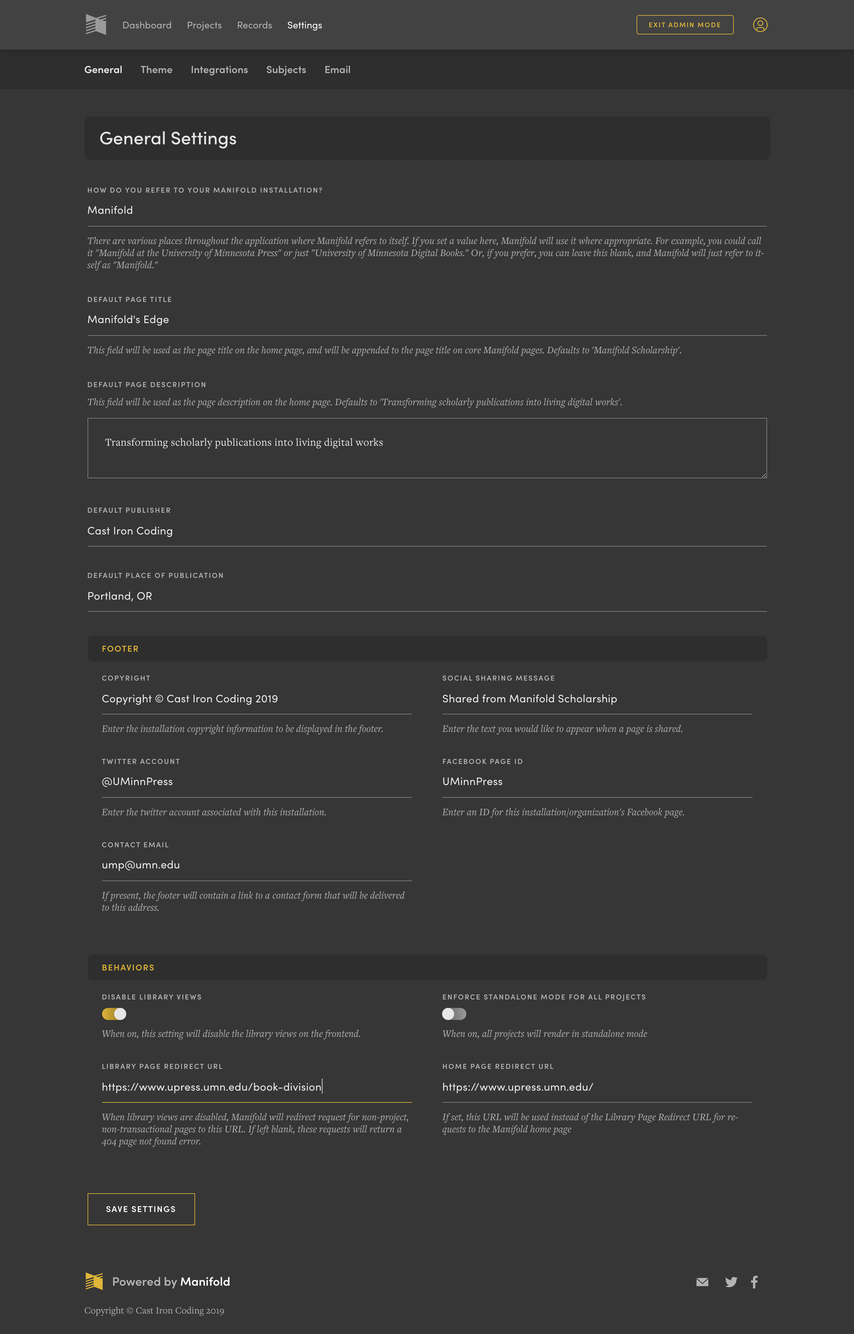
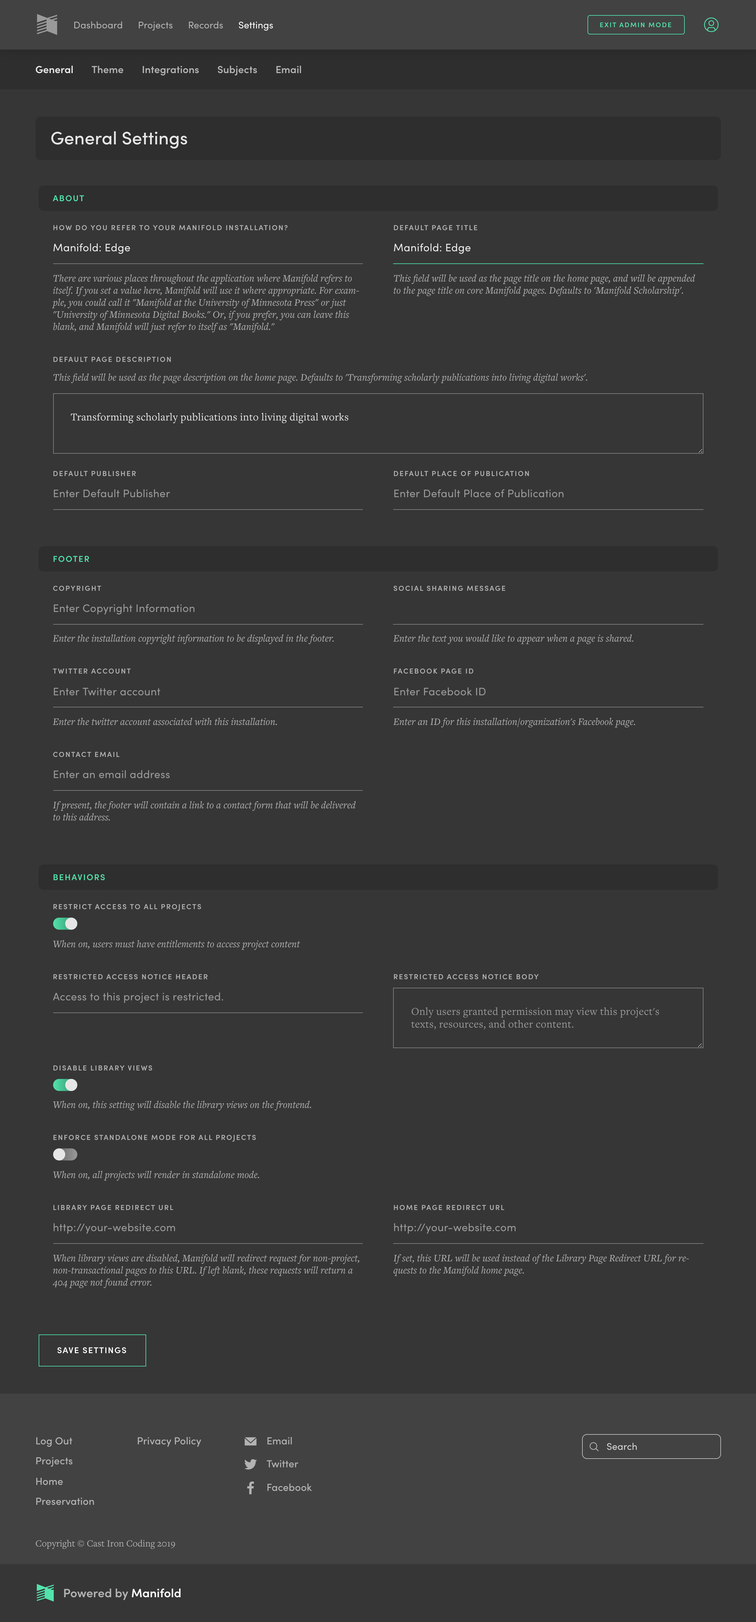
Describes new entitlement feature

diff --git a/_docs/projects/customizing/access.md b/_docs/projects/customizing/access.md
@@ -1,0 +1,146 @@
+---
+layout: page
+title: Access
+menus:
+  projects_customizing:
+    weight: 3
+---
+
+The Access sidebar settings allow editors to control who can modify or access specific projects on a Manifold instance. These settings are categorized along two different trajectories:
+
+- **Editor Permissions** are oriented around collaboration and granting backend access and status to particular users on a limited basis. For instance, a production editor at a university press wants to allow an author to place their own media resources in a text, a journal editor wants to invite another user to help load materials for a special issue, a teacher wants their graduate assistant to curate a collection of OER materials. In Manifold speak, we think of these as “scoped roles” as compared to “global roles,” which are described in the [Users section](/docs/projects/accounts/users.html).
+- **Project Entitlements**, on the other hand, allow publishers the means to limit who can access and engage with a project. This could be used as a basic paywall mechanism, a means to preview content to authors before it debuts publicly, a means to serve exam and desk copies, a way for teachers to limit project access to only members of their class.
+
+The means by which these sorts of permissions and entitlements limit or extend access to users is described in detail below.
+
+![Access Sidebar Menu](/docs/assets/projects/access.png)
+
+## Editor Permissions
+
+The most common permission-granting scenario will be in providing those with [Reader roles](/docs/projects/accounts/users.html) one or more of the following permissions, though these permissions can be granted to other role types as well.
+
+By default this section will be empty for new projects, except for those created by users with the `Project Creator` role, who will automatically be listed in this space with `Can Modify Project` permissions for those projects they create.
+
+<div style="background: #d4f2ff; margin: 20px 0; padding: 15px;">
+<strong>Note</strong>. Users who are granted these project-specific permissions cannot themselves extend such permissions forward to other users, with the exception of those who have <code>Can Modify Project</code> toggled on—the “Project Editor” permission.
+</div>
+
+To assign a user project-specific permissions, click `Grant editor permission`. This will open a drawer from the right side of the screen with a dropdown menu and three sliders.
+
+![Access Sidebar Menu](/docs/assets/projects/grant.png)
+
+Click the `Select User` dropdown and begin typing or scrolling to find the user whom you want to assign the permissions. If they can't find their name, they may not yet have an account on your instance, and you will need to [create a new user account](/docs/projects/accounts/creating.html) on their behalf.
+
+You can now toggle the sliders for the following three permissions. To formally extend those permissions click `Save Permissions`. Once clicked those permissions will be activated and ready to use immediately.
+
+### Can Modify Project
+
+Grants user the ability to make any change within the scope of the backend project page as well as modify Maker records directly associated with those projects where they have been granted this permission. This includes the ability to permanently delete a Maker record that may also be associated with other projects.
+
+When this option is selected the title `Project Editor` will be appended next to the user's name.
+
+### Can Modify Resource Metadata
+
+Grants users the ability to update resource metadata. This permission will be most useful to bestow on those who are best positioned—or simply have the requisite time—to flesh out the information associated with project's resources.
+
+When this option is selected the title `Metadata Author` will be appended next to the user's name.
+
+<div style="background: #d4f2ff; margin: 20px 0; padding: 15px;">
+<strong>Note</strong>. It would be redundant to grant a user both “Can Modify Project” and “Can Modify Metadata,” as someone who can modify a project can also inherently modify its metadata.
+</div>
+
+### Is a Project Author
+
+Grants users the ability to access draft projects, modify metadata and place resources in the project's texts. This permission will also differentiate the user's annotations and highlights from others with a pink color and an author badge, as a means indicate that the author is themself engaging with the project directly.
+
+When this option is selected the title `Author` will be appended next to the user's name.
+
+<a name="entitlements"></a>
+
+## Project Entitlements
+
+The controls in this section allow a publisher to limit who can access a specific project. Access to a project can be restricted to individual users or particular reading groups (e.g., a reading group of peer reviewers, a group who receives review copies, a discussion section of a class).
+
+Presently, the transaction that grants an entitlement occurs outside of the Manifold platform: a student signs up for a class, a teacher invites the student to a reading group that has an entitlement to a specific project; a reader purchases access to a project via a publisher's website, the publisher manually grants that reader's account access to that project. In the future we are hoping to make it possible to manage that process programmatically with a publisher's existing authentication architecture.
+
+Beyond restricting access, the settings here can be used to customize the messaging around why the project is restricted and how to gain access to it.
+
+Publishers can also search through existing entitlements to revoke access or learn when a user's access to a project will expire.
+
+<div style="background: #d4f2ff; margin: 20px 0; padding: 15px;">
+<strong>Note</strong>. The settings here are for an individual project. By default all Manifold projects are openly accessible. To change the default so that all publications are restricted, see the <a href="/docs/customizing/settings/general.html#behaviors">Settings section</a>.
+</div>
+
+### Configure Access Restrictions
+
+To activate access controls for your project, click `Configure Access Restrictions`. 
+
+![Entitlements Menu](/docs/assets/projects/configaccess.png)
+
+This will expand the project restriction option, which are contextual based on the default access setting:
+
+![Entitlements Menu](/docs/assets/projects/restrictions.png)
+
+#### Project Access is Restricted *(Conditional)*
+
+When this slider is toggled on, access to the project will be restricted to only those users or reading groups who have credentials to modify the project in the backend and those who have entitlements to do so.
+
+This means all users on the instance who log in with `Administrator`, `Editor`, or `Marketeer` credentials can access restricted projects.
+
+Users logging in with `Project Creator` or `Reader` credentials will not have access to restricted projects *unless* (1) they have been granted a project permission, as described in the section above; (2) they have secured an entitlement described in the `Create Entitlement` section below; or (3) are a member of a reading group that has likewise been granted an entitlement to the project. For more on the different kinds of Manifold users, see the [Accounts section](/docs/projects/accounts/users.html).
+
+Users who attempt to access project materials without the appropriate credentials will be directed to the project landing page where a restricted access ribbon will display across the hero, reading “Only authorized users may access this project.”
+
+![Restriction Ribbon](/docs/assets/projects/onlyAuthorized.png)
+
+This slider also has implications for the [calls-to-action](/docs/projects/customizing/layout.html#callActions) that are configured to appear in the hero section. Calls-to-Action of the type `Link` or `Download` can be set to appear always, only for authorized users, or only for unauthorized users. This provides publishers a means to tailor the experience of the project for users depending on how they presently relate to a project. See the [Layout section](/docs/projects/customizing/layout.html#callActions) for more.
+
+#### Project is Open Access *(Conditional)*
+
+When a Manifold instance is configured to restrict access to all projects (described in the [General Settings section](/docs/customizing/settings/general.html#behaviors)) this slider will read as “Project is Open” instead of “Project Access is Restricted.”
+
+In this state, this slider allows a publisher to selectively make certain projects openly available to all readers without need for any special entitlements. This could be useful for journals, book series, or general marketing efforts aimed at giving readers a preview of the kinds of content generally available on an instance.
+
+#### Restricted Access Notice Header
+
+When `Project Access is Restricted` is toggled on, the text in this field will display (with the `Restricted Access Notice Body`) below the project hero for only those users who don't have credentials to access the project.
+
+This field is customizable and Markdown enabled. If left blank, the default message will display: “Access to this project is restricted.”
+
+![Restricted Notice](/docs/assets/projects/restrictedNotice.png)
+
+#### Restricted Access Notice Body
+
+When `Project Access is Restricted` is toggled on, the text in this field will display (with the `Restricted Access Notice Header`) below the project hero for only those users who don't have credentials to access the project.
+
+This field is customizable and Markdown enabled. If left blank, the default message will display: “Only users granted permission may view this project's texts, resources, and other content.”
+
+### Search Entitlements
+
+The search bar in the entitlement sections allows publishers to sort through existing and past entitlements. Entitlements can be revoked individually as needed. Each entitlement records also carries a tag to indicate the current status of the permission: active, expired, or expiring soon.
+
+![Entitlements Menu](/docs/assets/projects/entitlements.png)
+
+### Create Entitlement
+
+To provide users or reading groups an entitlement to access restricted projects, click `Create entitlement`. This will open up the Grant Entitlements panel from the right.
+
+![Entitlements Panel](/docs/assets/projects/entitlementsPanel.png)
+
+The panel comprises two fields that define the nature of the entitlement:
+
+#### Who is the Entitlement For?
+
+Using this dropdown, publishers can scroll or type-ahead for existing users or reading groups to grant an access entitlement to the project. Presently only one selection can be made at a time.
+
+If there is no entry for the intended user, a new account will first need to created for them. Learn more about that process in the [Accounts section](/docs/projects/accounts/creating.html).
+
+Once `Save Entitlement` is clicked the entitlement will be in place and the user or reading group will immediately have access to the project.
+
+Access entitlements for reading groups remain in effect for the individual members of the group for the duration of entitlement and so long as they remain a part of the group.
+
+#### Expiration *(Optional)*
+
+By default an entitlement does not have an expiration date. If one is desired include the date here in `YYYY/MM/DD` format. This field also accepts human-readable strings in the form of "in *x* term" (e.g., “in three days,” “in two months,” “in one year”).
+
+Existing entitlements, once saved saved, cannot be modified—only deleted. However, users and reading groups can have multiple entitlements. If an entitlement record doesn't align with current expectations, a new entitlement can be granted with new terms: if Journal Subscriber has an entitlement that expires at the end of the year and she has just renewed her subscription, a new entitlement record can be assigned with the new terms of expiration. When one entitlement ends the other will automatically go into effect.

diff --git a/_docs/projects/accounts/users.md b/_docs/projects/accounts/users.md
@@ -6,7 +6,11 @@ menus:
     weight: 1
 ---
 
-Users are created by those first signing up for an account with a particular instance of Manifold—or by an existing Administrator on behalf of one who doesn't yet have an account. User accounts carry permission credentials according to the following roles:
+Users are created by those first signing up for an account with a particular instance of Manifold—or by an existing Administrator on behalf of one who doesn't yet have an account. User accounts provide credentials along the following lines:
+
+<div style="background: #d4f2ff; margin: 20px 0; padding: 15px;">
+In Manifold speak, user accounts are “global roles,” in that the permissions these roles bestow function as described here generally across a Manifold instance. It is also possible to extend similar permissions at an individual project level. Those are “scoped roles” that are fully considered in the <a href="/docs/projects/customizing/access.html">Access section</a>.
+</div>
 
 ## Administrator
 
@@ -16,24 +20,24 @@ Users are created by those first signing up for an account with a particular ins
 
 ## Editor
 
-**Abilities**. Editors can create, modify, or delete Projects, [Maker records](/docs/projects/accounts/makers.html) and an installation's [Pages](/docs/customizing/records/pages.html), regardless of who originally created them. Editors *do not* have access to an installation's [global settings](/docs/customizing/settings/index.html), cannot manage [Features](/docs/customizing/records/features.html), nor can they create, modify, or delete [user accounts](/docs/projects/accounts/users.html). Editors, however, can grant other users [permissions to modify specific projects](/docs/projects/customizing/permissions.html).
+**Abilities**. Editors can create, modify, or delete Projects, [Maker records](/docs/projects/accounts/makers.html) and an installation's [Pages](/docs/customizing/records/pages.html), regardless of who originally created them. Editors *do not* have access to an installation's [global settings](/docs/customizing/settings/index.html), cannot manage [Features](/docs/customizing/records/features.html), nor can they create, modify, or delete [user accounts](/docs/projects/accounts/users.html). Editors, however, can grant other users [permissions to modify specific projects](/docs/projects/customizing/access.html).
 
 **Use Cases**. Editor permissions would be used for those in DH Centers, publishing units, and libraries where staff with this permission designation need full control over all the projects and Maker records within an instance.
 
 ## Project Creator
 
-**Abilities**. Can access the backend and modify all elements of those projects they've created or those for which they have been scoped `Can Modify Project` [permissions](/docs/projects/customizing/permissions.html). Project Creators likewise have the authority to extend permissions to other users over those projects they manage. Additionally, Project Creators can create new and modify existing Maker records; however, they cannot delete *any* Maker record, even those they created.
+**Abilities**. Can access the backend and modify all elements of those projects they've created or those for which they have been scoped `Can Modify Project` [permissions](/docs/projects/customizing/access.html). Project Creators likewise have the authority to extend permissions to other users over those projects they manage. Additionally, Project Creators can create new and modify existing Maker records; however, they cannot delete *any* Maker record, even those they created.
 
 **Use Cases**. The Coordinator role can be granted to (acquisitions) editorial and production staff, within a university press, to manage their specific projects and the people contributing to them. At other publishing centers this role allows members of distinct units to control their own projects without affecting the instance as a whole or the publishing work of other units on the same instance.
 
 ## Marketeer
 
-**Abilities**. Marketeers can modify *all* existing Projects and Maker records, as well as create, modify, or delete an installation's [Pages](/docs/customizing/records/pages.html) and [Features](/docs/customizing/records/features.html). However, they *cannot* extend [permissions](/docs/projects/customizing/permissions.html) to other users on a project-by-project basis, nor can they create new or delete existing Maker records, nor can they.
+**Abilities**. Marketeers can modify *all* existing Projects and Maker records, as well as create, modify, or delete an installation's [Pages](/docs/customizing/records/pages.html) and [Features](/docs/customizing/records/features.html). However, they *cannot* extend [permissions](/docs/projects/customizing/access.html) to other users on a project-by-project basis, nor can they create new or delete existing Maker records, nor can they.
 
 **Use Cases**. For those who are charged with maintaining the identity, voice, and branding of the instance. At a university press this role would granted to staff from the marketing and sales departments.
 
 ## Reader
 
-**Abilities**. The default user role. When logged in a Reader can highlight, annotate, comment, make use of sharing functionalities, and customize email notifications, all of which are described in detail in the [Reading section](/docs/reading/index.html). Readers don't have native access to the backend in any capacity, but they can be scoped permissions to perform certain actions in the backend (e.g., adding resources to a project or modifying metadata). Readers can also be classified as project authors, which distinguishes their interactions with their text from other readers. For more about what permissions can be scoped to the Reader role on a project-by-project basis, see the [Permissions section](/docs/projects/customizing/permissions.html).
+**Abilities**. The default user role. When logged in a Reader can highlight, annotate, comment, make use of sharing functionalities, and customize email notifications, all of which are described in detail in the [Reading section](/docs/reading/index.html). Readers don't have native access to the backend in any capacity, but they can be scoped permissions to perform certain actions in the backend (e.g., adding resources to a project or modifying metadata). Readers can also be classified as project authors, which distinguishes their interactions with their text from other readers. For more about what permissions can be scoped to the Reader role on a project-by-project basis, see the [Access section](/docs/projects/customizing/access.html).
 
 **Use Cases**. All users signing up for the first time to an instance are granted a Reader role. Users who have authored materials on the platform should come into the system as Readers and be granted further permission to access and engage with their project. See the Abilities section below for more details.

diff --git a/_docs/projects/customizing/layout.md b/_docs/projects/customizing/layout.md
@@ -118,14 +118,25 @@ In the example above there are three buttons on the left, two on the right, and 
 
 To create a new button or link, click one of the four respective buttons labeled, "Add Button [or Link] to Left [or Right] side."
 
-The interface is very plastic, so you can drag/drop elements from one quadrant (e.g., left-side link) to another (right-side button), and the system will change the link/button behavior accordingly.
+The interface is very plastic, so you can drag/drop elements from one column (e.g., left-side link) to another (right-side button), and the system will change the link/button behavior accordingly.
 
-When creating a new button or link a drawer will slide open from the right and prompt users for a title, a type, and then what the button/link should relate to. Because button and links are oriented around their type or action, we will consider them along those lines:
+When creating a new button or link a drawer will slide open from the right and prompt users for a title, a type, and then what the button/link should relate to. Because button and links are oriented around their type or action, we will consider them along those lines in the following sections.
+
+<div style="background: #d4f2ff; margin: 20px 0; padding: 15px;">
+<p><strong>Note</strong>. Calls-to-action are contextual relative to whether or not a project is configured for <a href="/docs/projects/customizing/access.html#entitlements">restricted access</a>.</p>
+<p><code>Start Reading</code> and <code>Table of Contents</code> calls-to-action types will always appear in the hero, though only those with the appropriate credentials will be able to follow them to their intended target.</p>
+<p><code>Link</code> and <code>Download</code> calls-to-action have visibility settings that allow a publisher to choose whether or not they always appear or appear to either authorized or unauthorized users. Thus it is possible to configure a project to showcase one set of calls to actions for authorized users and a different set for unauthorized users.</p>
+</div>
 
 <a name="actionsLink"></a>
+
 #### Link
 
 Links point to any content, either hosted on Manifold or remotely, that can be described with a URL. Two examples: a link can be used to create a button that reads "Buy Now" and links to the publisher's shopping cart. Or a link could be used to show a link to related content on the author's personal website.
+
+The `Visibility` field in the Link configuration drawer allows a publisher to determine when this element will appear in the hero: always, only for authorized users, or only for unauthorized users.
+
+For example, a subscription link would be useful for unauthorized users to gain access to the project, while for authorized users that would not be of interest. Likewise links to specific materials may only be of use after a user has gained access to a project. See the [Access section](/docs/projects/customizing/access.html#entitlements") for more.
 
 <a name="actionsRead"></a>
 #### Start Reading
@@ -184,6 +195,10 @@ A Table of Contents link/button opens a specific text to the section that the fi
 #### Download
 
 The Download action allows publishers the means to load a file into the system that readers can download to their device. This can be useful if, say, the publisher wants to provide their readers with an ebook associated with the project or an archive of all the source files that were ingested into the Manifold reader. It could also be used to share collections of data or specific materials that require pride of place on the project page.
+
+The `Visibility` field in the Download configuration drawer allows a publisher to determine when this element will appear in the hero: always, only for authorized users, or only for unauthorized users.
+
+For example, a subscription link would be useful for unauthorized users to gain access to the project, while for authorized users that would not be of interest. Likewise links to specific materials may only be of use after a user has gained access to a project. See the [Access section](/docs/projects/customizing/access.html#entitlements") for more.
 
 <div style="background: #d4f2ff; margin: 20px 0; padding: 15px;">
 <strong>Note</strong>. There are no restrictions on the kind of file uploaded into this field.
@@ -304,15 +319,15 @@ The Table of Contents Block renders the table of contents for a specific text in
 
 Manifold populates this block using the source document's navigational table of contents or header structure, as described here:
 
-| Upload Format   | Navigational File |
-|:---------------:|:-----------------:|
-| EPUB3           | `tox.xhtml`       |
-| EPUB2           | `tox.ncx`         |
-| Manifest Ingest | `contents.yml`    |
-| DOCX            | Header structure  |
-| Google Doc      | Header structure  |
-| Markdown        | Header structure  |
-| HTML            | Header structure  |
+|  Upload Format  | Navigational File |
+| :-------------: | :---------------: |
+|      EPUB3      |    `tox.xhtml`    |
+|      EPUB2      |     `tox.ncx`     |
+| Manifest Ingest |  `contents.yml`   |
+|      DOCX       | Header structure  |
+|   Google Doc    | Header structure  |
+|    Markdown     | Header structure  |
+|      HTML       | Header structure  |
 
 In other words, the Contents dropdown in the Manifold reader for the selected text will mirror the readout for a Table of Contents block pointing to that same text.
 

diff --git a/_docs/customizing/settings/general.md b/_docs/customizing/settings/general.md
@@ -11,6 +11,8 @@ Selecting the `Settings` menu in admin mode will bring you to the `General` sett
 
 ![General Settings](/docs/assets/customizing/general.png)
 
+## About
+
 ### How Do You Refer to Your Manifold Installation?
 
 The name entered in this field will be used on the account creation modal that new users will see when they join your instance: `By creating this account, you agree to {name}’s terms and conditions.` It will also appear in the email sent to new users welcoming them to your instance: `Welcome to {name}. Thanks for signing up!`
@@ -83,13 +85,35 @@ When a reader clicks on the email icon link they will be directed to an editable
 
 ## Behaviors
 
+### Restrict Access to All Projects
+
+By default all Manifold projects are openly accessible. This toggle allows publishers to adjust that, so all projects are instead restricted and require an entitlement that is gained, for example, via a purchase, subscription, membership, etc.
+
+Such entitlements are bestowed to specific users or reading groups within the settings of individual projects. To learn more about that process and how restricted projects behave differently from open ones, see the [Access section](/docs/projects/customizing/access.html#entitlements).
+
+<div style="background: #d4f2ff; margin: 20px 0; padding: 15px;">
+<strong>Note</strong>. When this setting is toggled on, publishers will still have the ability to make certain projects openly accessible for general readers.
+</div>
+
+### Restricted Access Notice Header *(Contextual)*
+
+When `Project Access is Restricted` is toggled on, the text in this field will display (with the `Restricted Access Notice Body`) below the project hero for only those users who don't have credentials to access the project.
+
+This field is customizable and Markdown enabled. If left blank, the default message will display: “Access to this project is restricted.”
+
+![Restricted Notice](/docs/assets/projects/restrictedNotice.png)
+
+### Restricted Access Notice Body *(Contextual)*
+
+When `Project Access is Restricted` is toggled on, the text in this field will display (with the `Restricted Access Notice Header`) below the project hero for only those users who don't have credentials to access the project.
+
+This field is customizable and Markdown enabled. If left blank, the default message will display: “Only users granted permission may view this project's texts, resources, and other content.”
+
+### Disable Library Views
+
 For those publishers who want to leverage the power of Manifold with their existing web presence, they have the option to disable their main Manifold landing page and all associated library views of their projects.
 
 When those library views are disabled, publishers can instead point their audience to specific Manifold projects directly from their website without having to compete with the Manifold platform as a sort of secondary web presence.
-
-The fields below describe how to enable and customize this functionality.
-
-## Disable Library Views
 
 When this slider is toggled on, project library views will be disabled. Additionally,
 

diff --git a/_docs/projects/accounts/index.md b/_docs/projects/accounts/index.md
@@ -24,6 +24,6 @@ An example of how these two differ: if _Jane Eyre_ was loaded into the system, t
 
 ## See Also
 
-While Manifold accounts are primarily managed within the backend's [Records menu](/docs/projects/accounts/index.html); some functionality is also found in a projects sidebar and is detailed in the [Customizing Projects](/docs/projects/customizing/index.html) portion of this documentation, specifically the [Permissions](/docs/projects/customizing/permissions.html) and [People](/docs/projects/customizing/people.html) sections.
+While Manifold accounts are primarily managed within the backend's [Records menu](/docs/projects/accounts/index.html); some functionality is also found in a projects sidebar and is detailed in the [Customizing Projects](/docs/projects/customizing/index.html) portion of this documentation, specifically the [Access](/docs/projects/customizing/access.html) and [People](/docs/projects/customizing/people.html) sections.
 
 To learn how to associate a contemporary author's user account with their own project, see the the [People](/docs/projects/customizing/people.html) section.

diff --git a/_docs/projects/index.md b/_docs/projects/index.md
@@ -9,7 +9,7 @@ menus:
 
 To create or modify new projects, accounts, global content, and system settings, users will first need to be able to access the Manifold backend.
 
-The backend is available by default to users with the following roles: `Administrator`, `Editor`, `Project Creator`, and `Marketeer`. The backend is also available to `Readers` who have been granted permissions to do so. For more details, see the [User Accounts](/docs/projects/accounts/users.html) and [Permissions](/docs/projects/customizing/permissions.html) sections.
+The backend is available by default to users with the following roles: `Administrator`, `Editor`, `Project Creator`, and `Marketeer`. The backend is also available to `Readers` who have been granted permissions to do so. For more details, see the [User Accounts](/docs/projects/accounts/users.html) and [Access](/docs/projects/customizing/access.html) sections.
 
 <a name="accessing"></a>
 ## Accessing the Backend

diff --git a/_docs/projects/customizing/index.md b/_docs/projects/customizing/index.md
@@ -45,7 +45,7 @@ All available means to customize a project are contained on this page and broken
 
 * [General](/docs/projects/customizing/general.html)
 * [Layout](/docs/projects/customizing/layout.html)
-* [Permissions](/docs/projects/customizing/permissions.html)
+* [Permissions](/docs/projects/customizing/access.html)
 * [People](/docs/projects/customizing/people.html)
 * [Texts](/docs/projects/customizing/texts.html)
 * [Resources](/docs/projects/customizing/resources.html)
